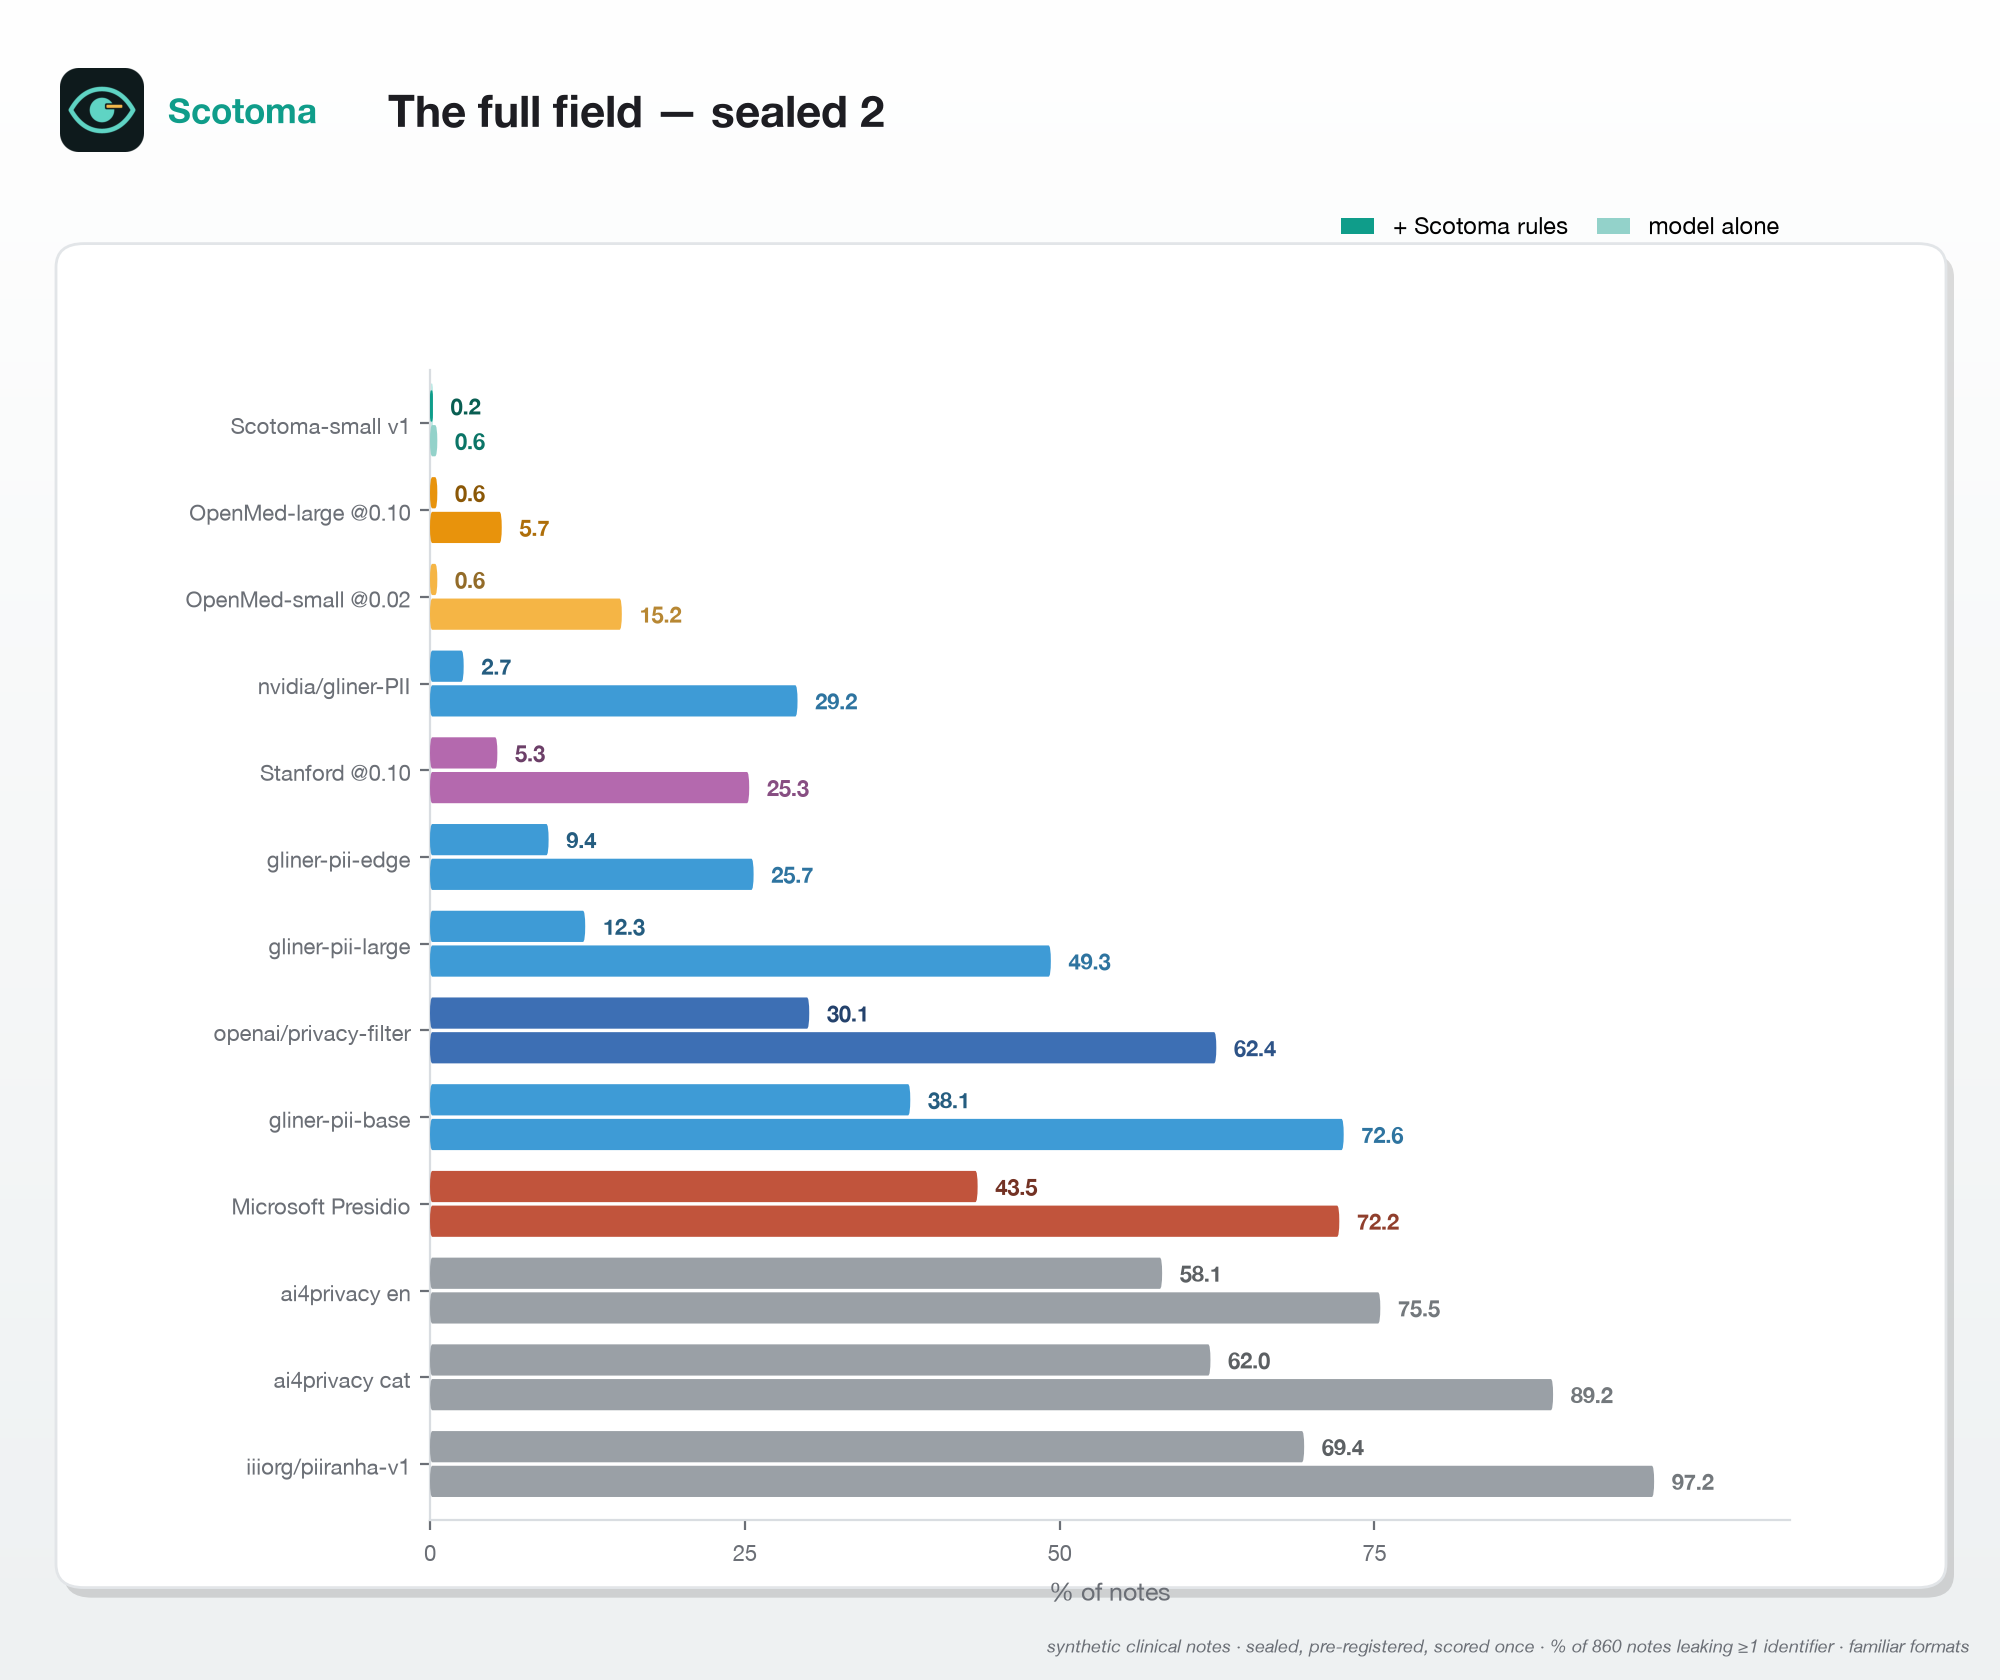
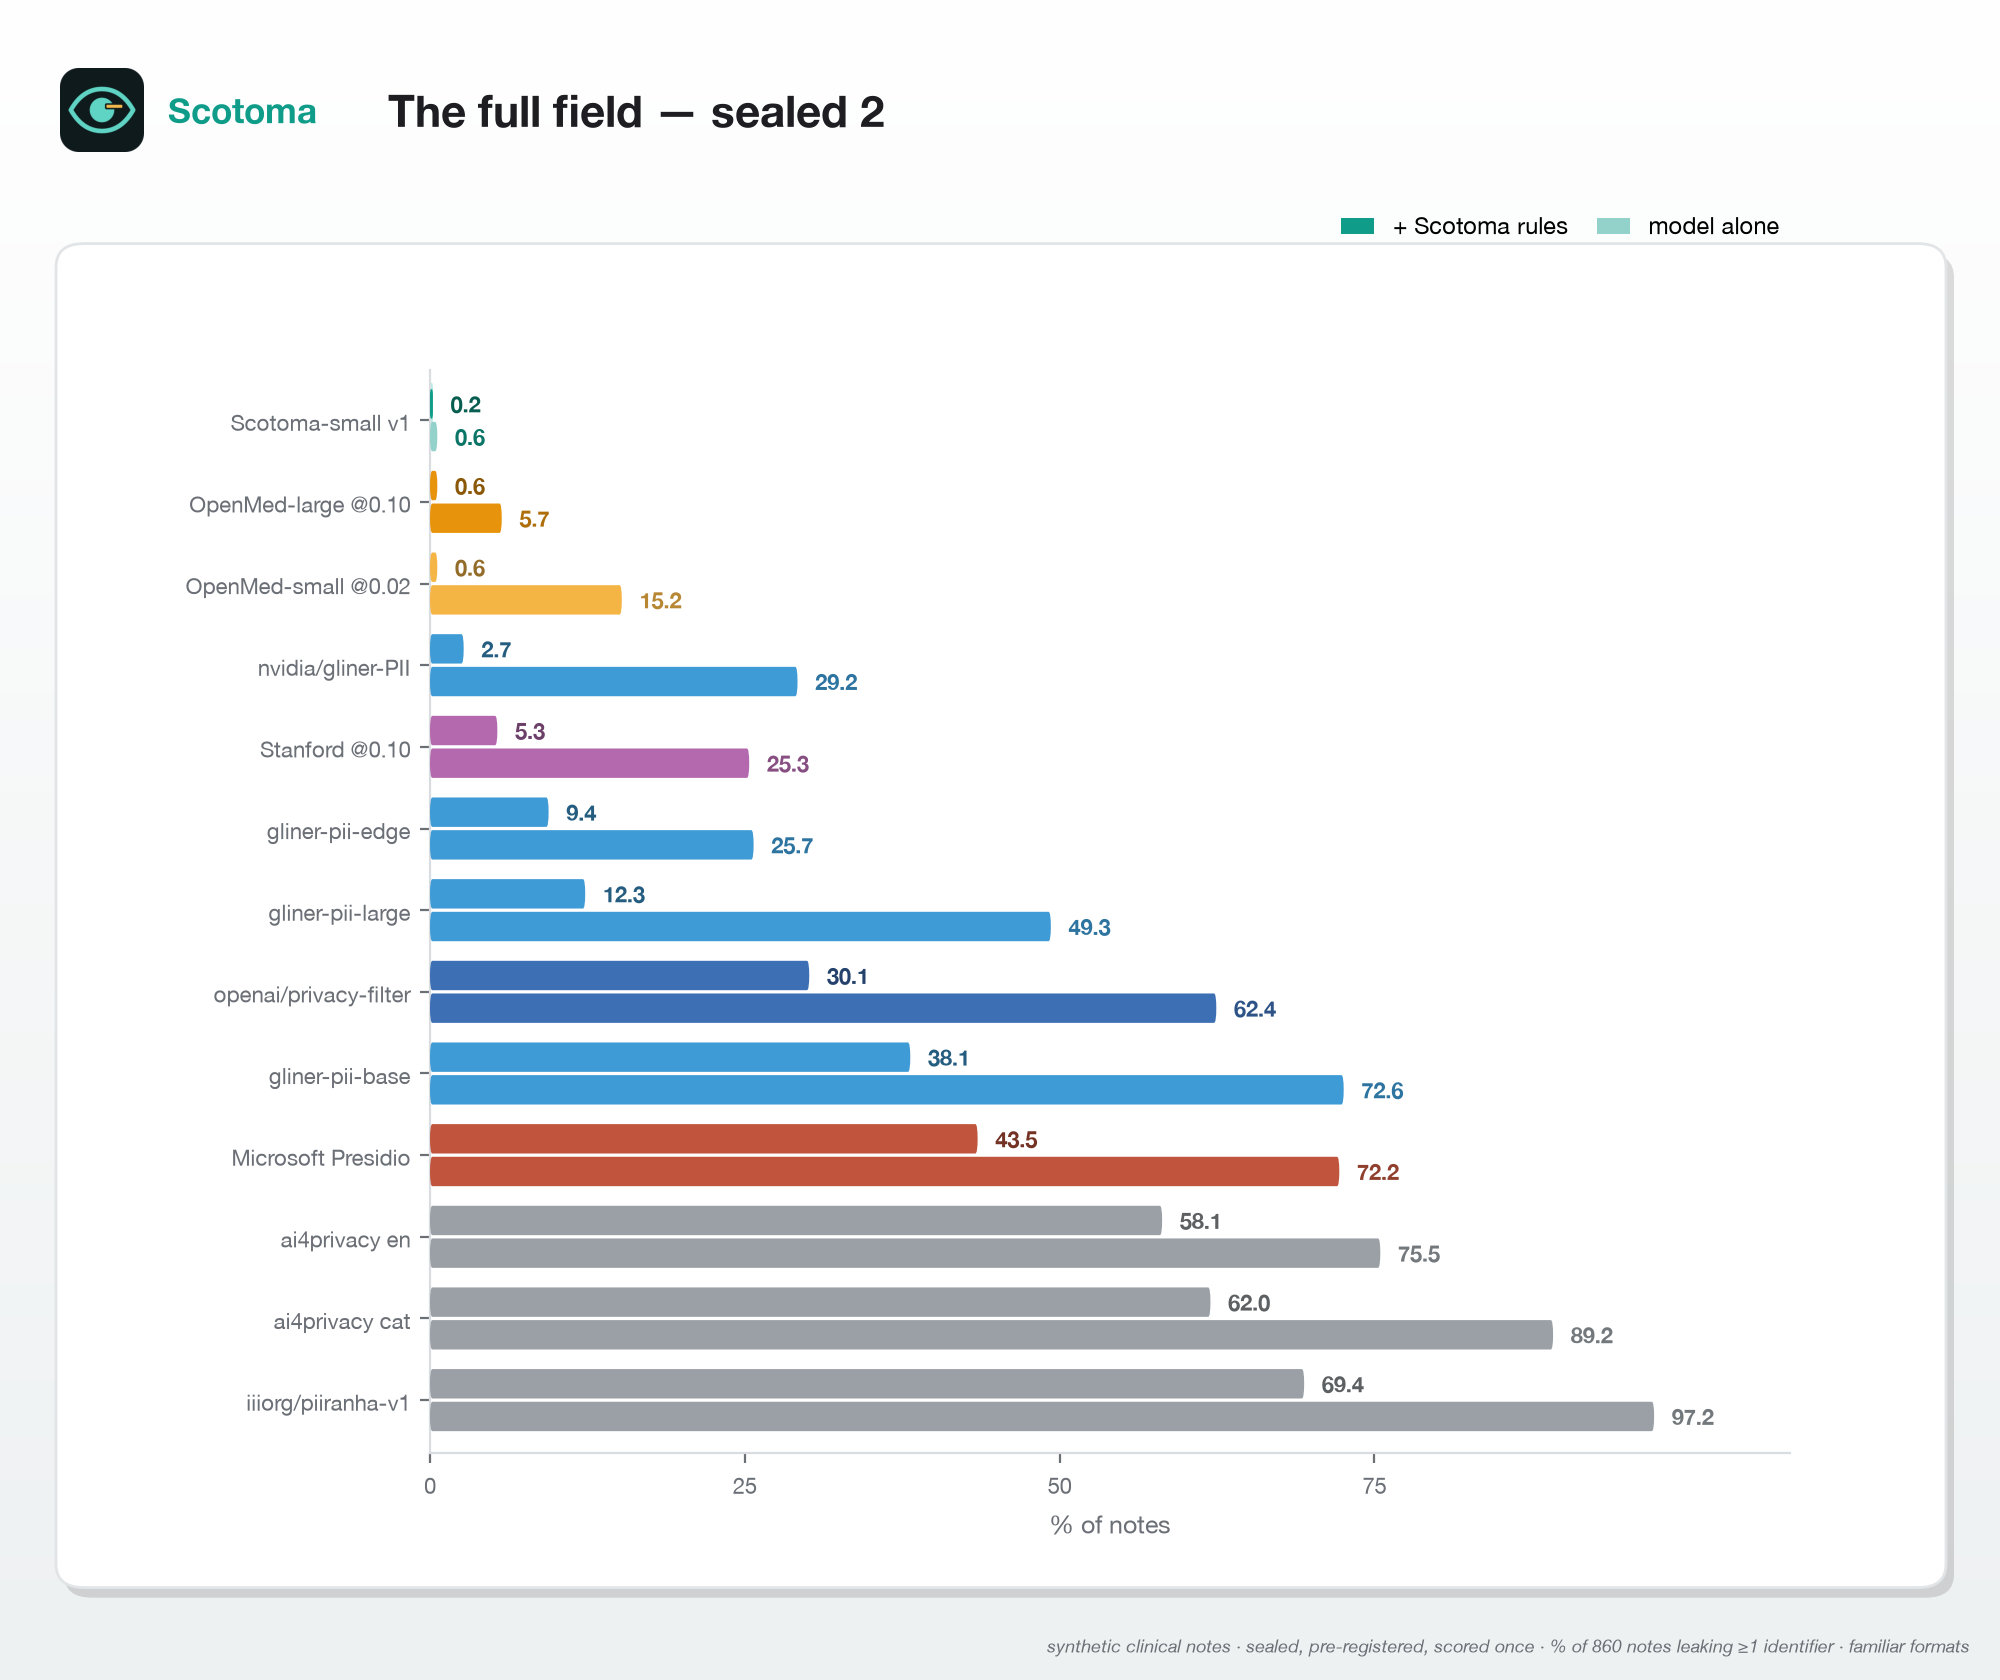
figures: keep axis labels inside cards (field, speed, progress)

Changed region(s): [[0.093, 0.2476, 0.868, 0.9595]]

diff --git a/plots/make_card_figures.py b/plots/make_card_figures.py
@@ -515,7 +515,7 @@ def fig_field():
                          "scored once · % of 860 notes leaking ≥1 identifier · "
                          "familiar formats")
     ax = card_axes(fig, (0.028, 0.055, 0.945, 0.80), pad=0.02)
-    ax.set_position([0.215, 0.095, 0.68, 0.685])
+    ax.set_position([0.215, 0.135, 0.68, 0.645])
 
     h = 0.36
     ys = np.arange(len(rows))
@@ -601,7 +601,7 @@ def fig_speed():
                          "bubble = ONNX file size · not shown: GLiNER ×4, "
                          "privacy-filter, Presidio (GPU-precomputed, n/m)")
     ax = card_axes(fig, (0.028, 0.055, 0.945, 0.80), pad=0.03)
-    ax.set_position([0.085, 0.115, 0.845, 0.685])
+    ax.set_position([0.085, 0.160, 0.845, 0.640])
 
     # better-quadrant: soft teal gradient, bottom-left
     ax.set_xlim(-5, 305)
@@ -715,7 +715,7 @@ def fig_progress():
 
     for i, (setname, rows) in enumerate(data.items()):
         ax = card_axes(fig, (0.028 + i * 0.485, 0.075, 0.455, 0.76), pad=0.025)
-        ax.set_position([0.075 + i * 0.485, 0.115, 0.395, 0.60])
+        ax.set_position([0.075 + i * 0.485, 0.175, 0.395, 0.54])
         xs = np.arange(len(rows))
         w = 0.34
         xlabels = []
